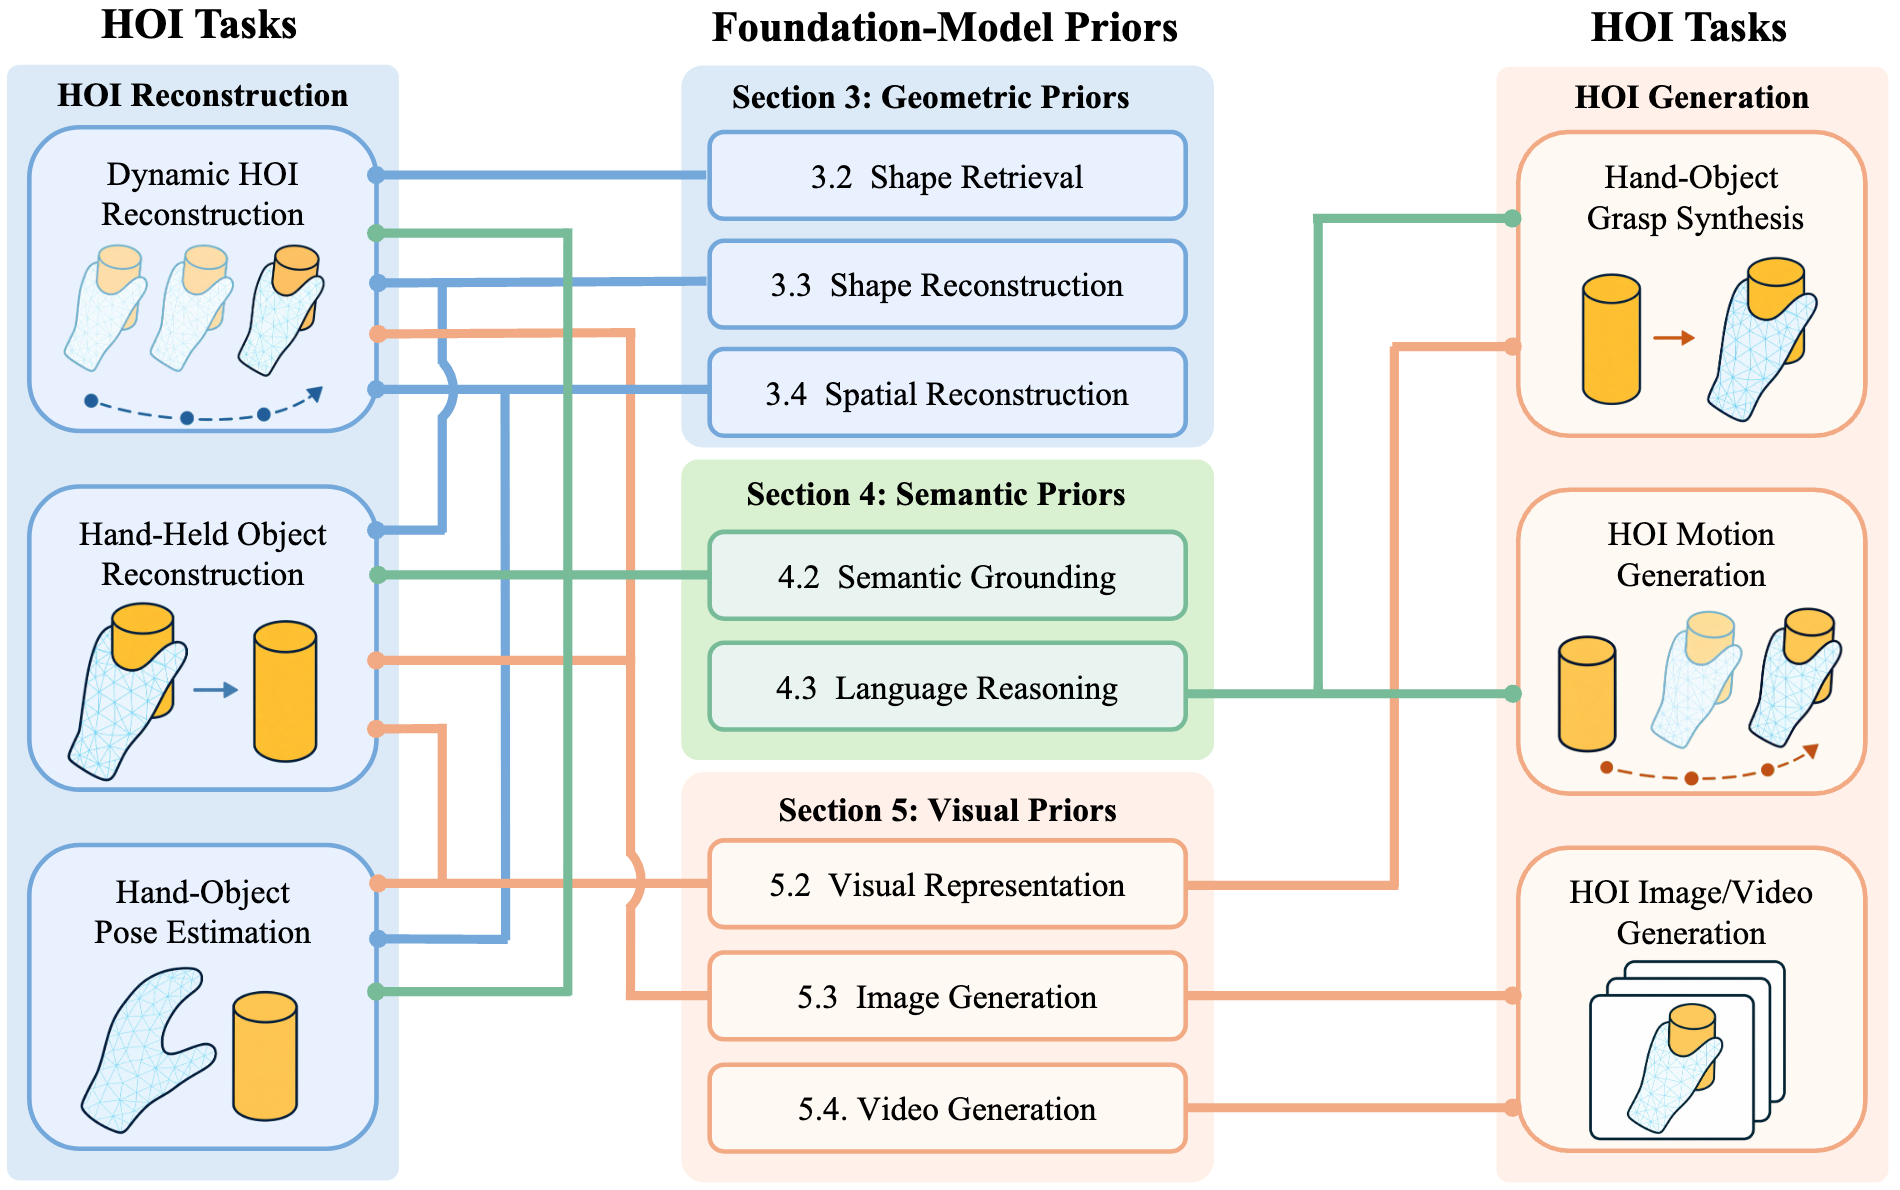
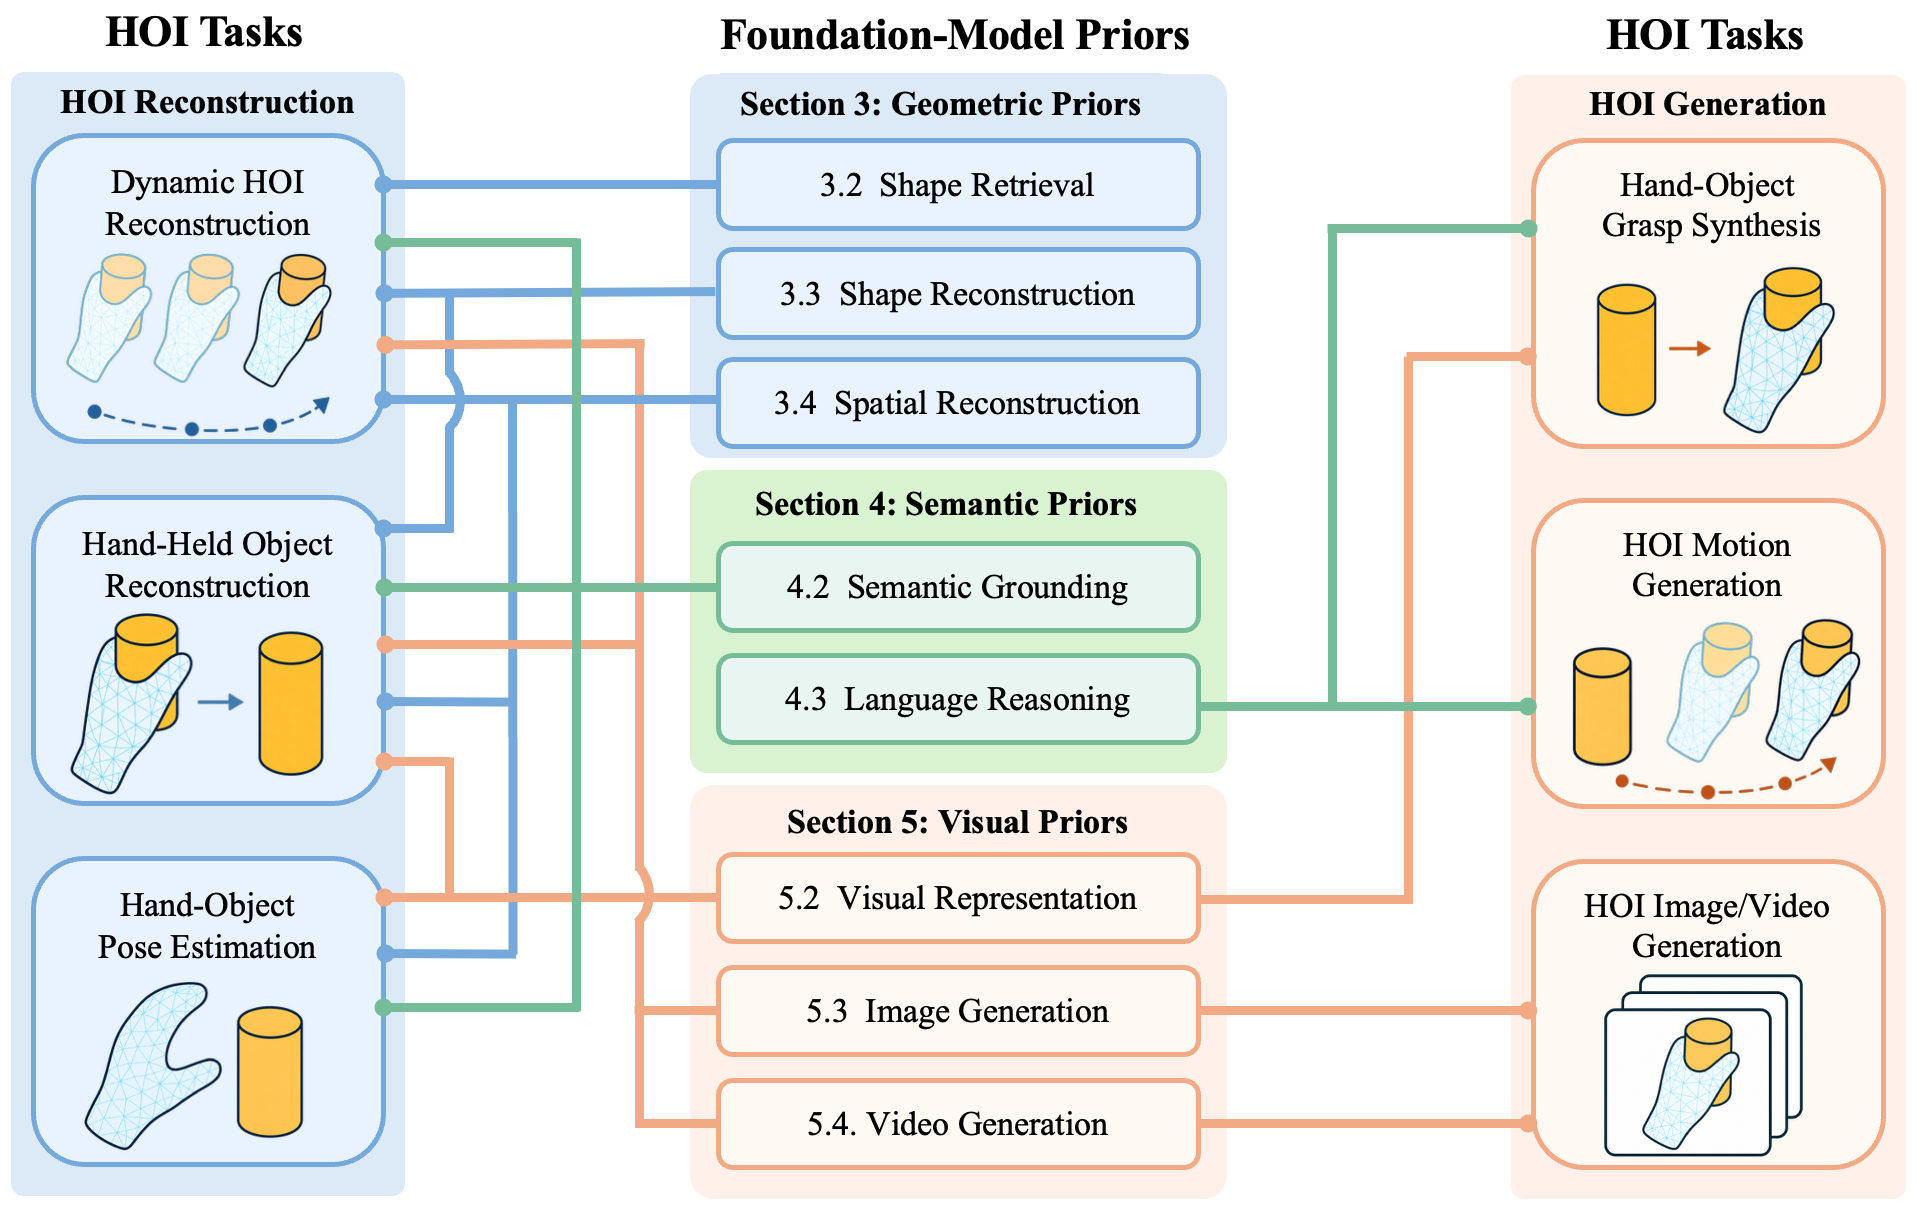
[update] update paper's information and fig 2

diff --git a/index.html b/index.html
@@ -54,10 +54,10 @@
       <div class="stat"><div class="stat-num">6</div><div class="stat-label">HOI Tasks</div></div>
       <div class="stat"><div class="stat-num">3</div><div class="stat-label">Prior Families</div></div>
       <div class="stat"><div class="stat-num">8</div><div class="stat-label">Foundation-Model Sub-Priors</div></div>
-      <div class="stat"><div class="stat-num">17</div><div class="stat-label">Prior–Task Combinations</div></div>
+      <div class="stat"><div class="stat-num">20</div><div class="stat-label">Prior–Task Combinations</div></div>
       <div class="stat"><div class="stat-num">3</div><div class="stat-label">Embodied Transfer Directions</div></div>
       <div class="stat"><div class="stat-num">200+</div><div class="stat-label">Methods Surveyed</div></div>
-      <div class="stat"><div class="stat-num">20</div><div class="stat-label">Human-Video Datasets</div></div>
+      <div class="stat"><div class="stat-num">25</div><div class="stat-label">Human-Video Datasets</div></div>
       <div class="stat"><div class="stat-num">34</div><div class="stat-label">HOI Benchmark Datasets</div></div>
       <div class="stat"><div class="stat-num">6</div><div class="stat-label">Open Challenges</div></div>
     </div>
